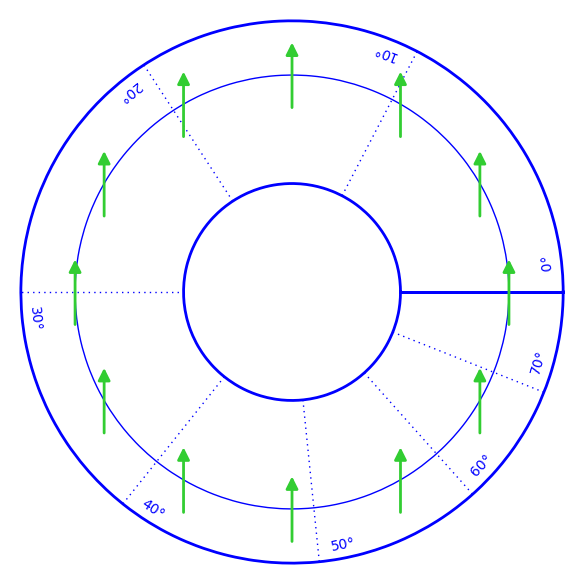
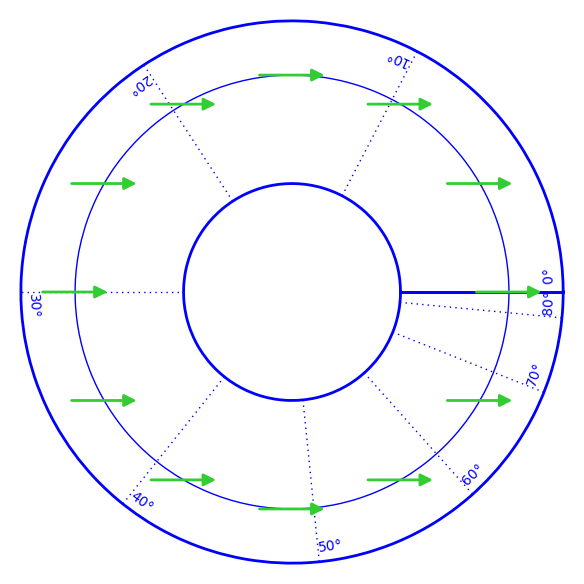
バグ隠し

diff --git a/Foucault/papermodel.py b/Foucault/papermodel.py
@@ -9,7 +9,8 @@ def rline(phi,r1,r2, str, rr, dphi, **args):
     line = parametric_plot([r*cos(phi), r*sin(phi)], (r,r1,r2), **args)
     pp = phi + dphi
     if str != "" :
-        txt = text(str, (rr*cos(pp),rr*sin(pp)), rotation=180/pi*pp + 90)
+        txt = text(str, (rr*cos(pp),rr*sin(pp)), \
+                   rotation=180/pi*pp + 90)
         return line + txt
     else:
         return line
@@ -33,14 +34,15 @@ p += rline(th+dth, 0.4,1, "",0,0, thickness=2)
 
 num = 9
 delta = pi/num/2
-for n in range(num-1):
+for n in range(num):
     lat = n * delta; #print lat
-    p += rline(2*pi*sin(lat), 0.4, 1,  u"%2d°" % (180*lat/pi), 0.95, 0.1, linestyle='dotted')
+    p += rline(2*pi*sin(lat), 0.4, 1,  u"%2d°" % (180*lat/pi),\
+               0.95, 0.05, linestyle='dotted')
 
 num = 12
 delta = 2 * pi/num
 for n in range(12):
-    p += pline(n*delta, 0.8, pi/2, 0.12, color='limegreen', zorder=1000)
+    p += pline(n*delta, 0.8, 0, 0.12, color='limegreen', zorder=1000)
 
 p.save("out/paper-model.png", axes=False)
-p.show(axes=False, title="Sample 01")
+p.show(axes=False)
